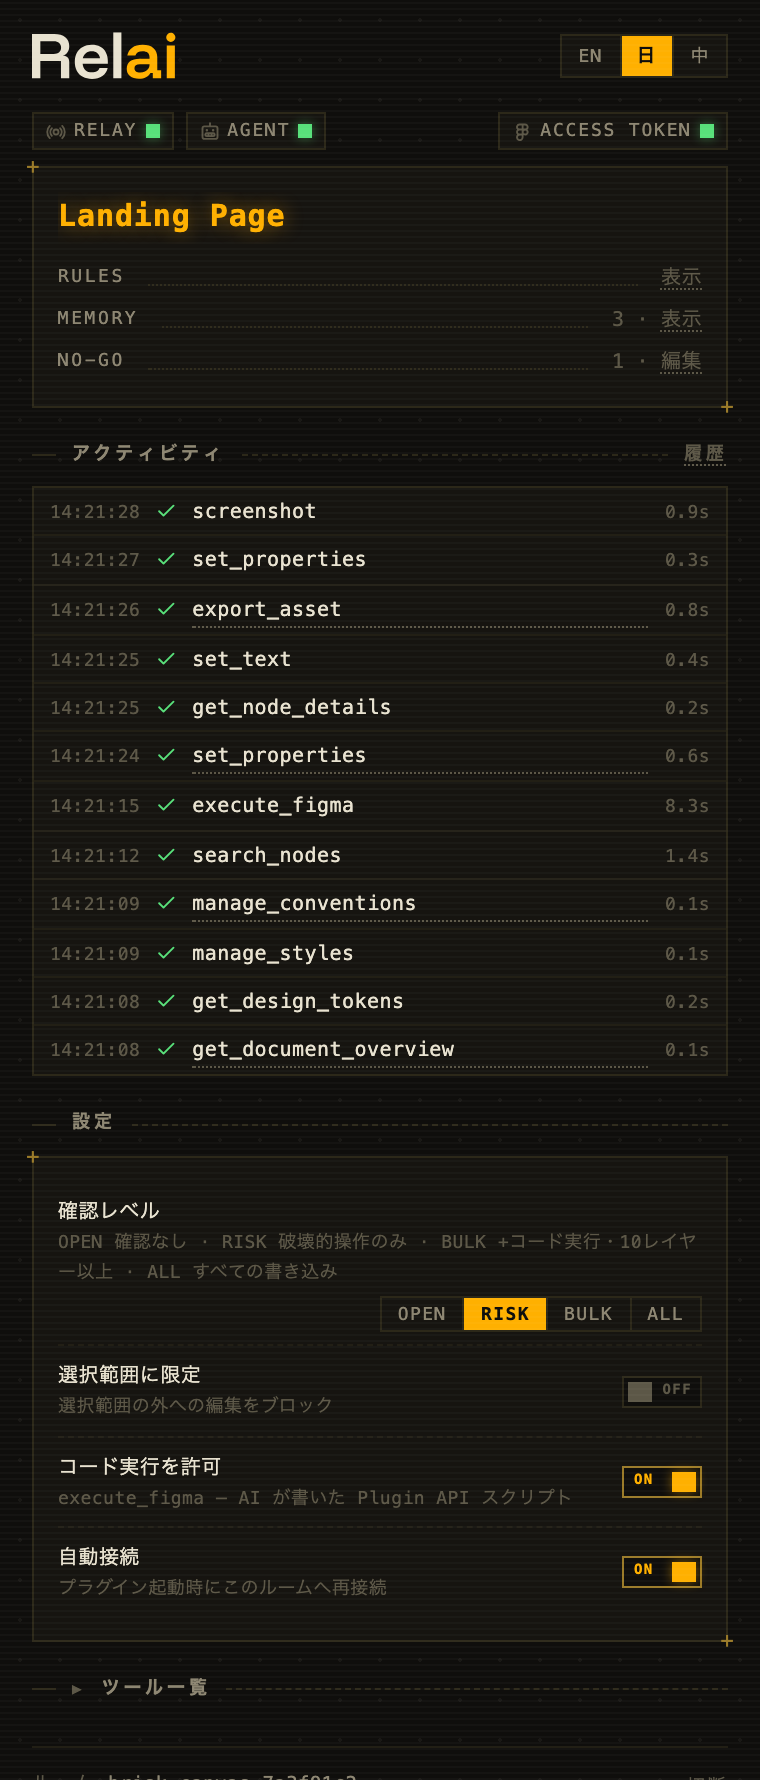
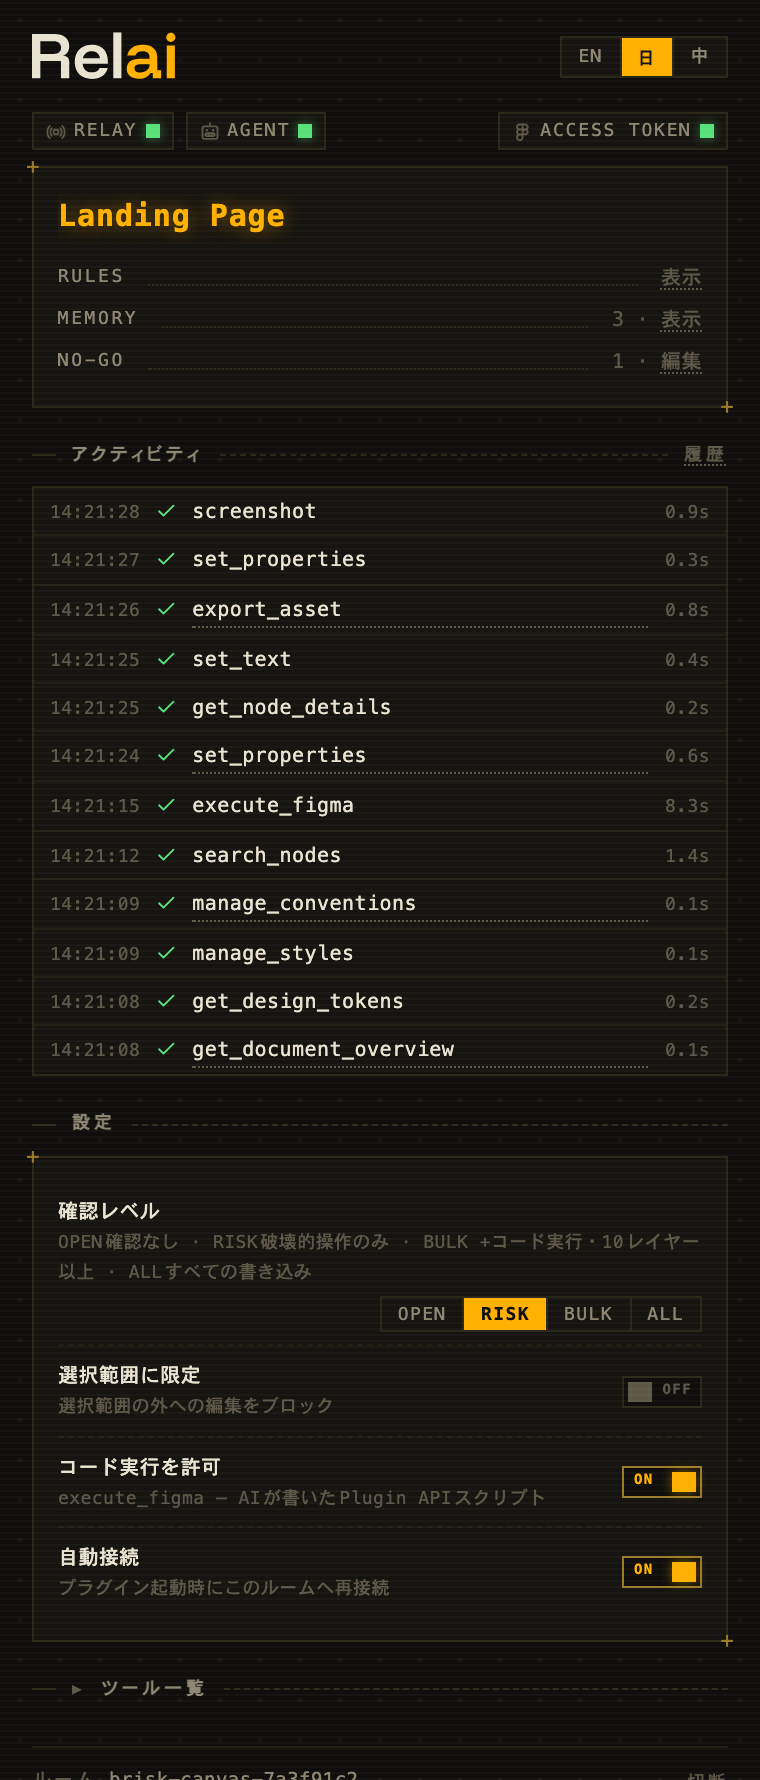
Panel: CJK spacing comes from the engine, the way the site does it
Every gap between Japanese or Chinese and Latin was a literal space typed into
the string — which meant it was uneven (MCP サーバー had one, 10レイヤー did not),
and it was the wrong tool besides: a half-width space in a mono panel is nearly
twice the 1/8 em the typography asks for. The 109 of them are gone; the rule the
site runs on does the work, and applyI18n now tells the document which language
it is so the engine can.

Panel shots re-rendered — only ja and zh moved, which is the check that the
change touched nothing else.

Claude-Session: https://claude.ai/code/session_01LE9DxpFc66NXBEVTWs7co9

diff --git a/packages/figma-plugin/ui.html b/packages/figma-plugin/ui.html
@@ -47,6 +47,10 @@
       position: relative;
     }
 
+    /* CJK↔Latin spacing comes from the engine, not hand-typed half-width spaces —
+       the same rule the site runs on, so the two faces read alike */
+    :root:lang(ja), :root:lang(zh-CN) { text-autospace: normal; }
+
     /* CRT scanlines — barely-there */
     body::after {
       content: "";
@@ -1035,25 +1039,25 @@
         regenerate: '再生成',
         connect: '接続',
         copy: 'コピー',
-        mcp_hint: 'Relay は MCP サーバーに内蔵されています。<b>ポート 9055–9057 にサーバーが見つかりません。</b>AI クライアントに登録して、会話を始めてください：',
-        client_hint_claude: 'Claude Code — ターミナルで実行し、セッションを再起動してください。Node 18+ が必要です。',
-        client_hint_codex: 'Codex CLI — ターミナルで実行すると <code>~/.codex/config.toml</code> に保存されます。Node 18+ が必要です。',
-        client_hint_cursor: 'Cursor — <code>.cursor/mcp.json</code>（プロジェクト）または <code>~/.cursor/mcp.json</code>（グローバル）に貼り付けてください。Node 18+ が必要です。',
+        mcp_hint: 'RelayはMCPサーバーに内蔵されています。<b>ポート9055–9057にサーバーが見つかりません。</b>AIクライアントに登録して、会話を始めてください：',
+        client_hint_claude: 'Claude Code — ターミナルで実行し、セッションを再起動してください。Node 18+が必要です。',
+        client_hint_codex: 'Codex CLI — ターミナルで実行すると<code>~/.codex/config.toml</code>に保存されます。Node 18+が必要です。',
+        client_hint_cursor: 'Cursor — <code>.cursor/mcp.json</code>（プロジェクト）または<code>~/.cursor/mcp.json</code>（グローバル）に貼り付けてください。Node 18+が必要です。',
         guide_title: '仕組み',
-        guide_step1: 'AI クライアントが MCP サーバー（<code>npx -y figma-relai</code>）を起動し、そのサーバーがポート 9055 で Relay をホストします。他にインストール・常駐するものはありません。',
-        guide_step2: 'このプラグインは <code>ws://localhost:9055</code> に接続するだけ。どちらが先に起動しても、双方が自動で再接続します。',
-        guide_step3: 'AI に話しかけるだけで、このプラグインのルームを自動で見つけてペアリングします。ルーム名のコピーは不要です。',
-        guide_step4: 'コントリビューター向け：リポジトリを clone して <code>bun setup</code> を実行すると、ローカルビルドを指す MCP 設定が書き出されます。',
+        guide_step1: 'AIクライアントがMCPサーバー（<code>npx -y figma-relai</code>）を起動し、そのサーバーがポート9055でRelayをホストします。他にインストール・常駐するものはありません。',
+        guide_step2: 'このプラグインは<code>ws://localhost:9055</code>に接続するだけ。どちらが先に起動しても、双方が自動で再接続します。',
+        guide_step3: 'AIに話しかけるだけで、このプラグインのルームを自動で見つけてペアリングします。ルーム名のコピーは不要です。',
+        guide_step4: 'コントリビューター向け：リポジトリをcloneして<code>bun setup</code>を実行すると、ローカルビルドを指すMCP設定が書き出されます。',
         relay_reconnecting: '再接続…',
-        relay_hint_up: 'MCP サーバー内のリレーに接続しています。',
+        relay_hint_up: 'MCPサーバー内のリレーに接続しています。',
         relay_hint_down: 'リレーに届きません — 再接続中です。',
         ai_waiting: '待機中',
-        agent_hint_on: 'AI がこのルームにいて、このファイルとペアリングしています。',
-        agent_hint_off: 'このルームにまだ AI がいません — ペアリング待ちです。',
+        agent_hint_on: 'AIがこのルームにいて、このファイルとペアリングしています。',
+        agent_hint_off: 'このルームにまだAIがいません — ペアリング待ちです。',
         token_absent: 'なし',
-        token_hint_absent: 'Figma アクセストークンが未設定です。クリックで設定方法を表示します。',
-        token_hint_ready: 'MCP サーバーが Figma アクセストークンを認識しています。コメントとライブラリ目録が利用できます。',
-        token_modal_body: 'Figma アクセストークンが未設定です。manage_comments とライブラリ全目録は使えません。以下をターミナルで実行し、AI のセッションを再起動してください：',
+        token_hint_absent: 'Figmaアクセストークンが未設定です。クリックで設定方法を表示します。',
+        token_hint_ready: 'MCPサーバーがFigmaアクセストークンを認識しています。コメントとライブラリ目録が利用できます。',
+        token_modal_body: 'Figmaアクセストークンが未設定です。manage_commentsとライブラリ全目録は使えません。以下をターミナルで実行し、AIのセッションを再起動してください：',
         token_copied: 'コピーしました',
         activity: 'アクティビティ',
         stop: '停止',
@@ -1061,11 +1065,11 @@
         cancelled: 'デザイナーがキャンセル',
         settings: '設定',
         allow_exec: 'コード実行を許可',
-        allow_exec_hint: 'execute_figma — AI が書いた Plugin API スクリプト',
+        allow_exec_hint: 'execute_figma — AIが書いたPlugin APIスクリプト',
         auto_connect: '自動接続',
         auto_connect_hint: 'プラグイン起動時にこのルームへ再接続',
         approvals: '確認レベル',
-        approvals_hint: 'OPEN 確認なし · RISK 破壊的操作のみ · BULK +コード実行・10レイヤー以上 · ALL すべての書き込み',
+        approvals_hint: 'OPEN確認なし · RISK破壊的操作のみ · BULK +コード実行・10レイヤー以上 · ALLすべての書き込み',
         approval_title: 'エージェントからのリクエスト',
         approve: '承認',
         deny: '拒否',
@@ -1088,11 +1092,11 @@
         kit_none: '使わない',
         kit_auto: '自動復元',
         kit_new: '追加',
-        kit_new_link: '+ このファイルの規約から',
+        kit_new_link: '+このファイルの規約から',
         conv_from_kit: 'キット「{kit}」から',
         approval_no_intent: '（エージェントは目的を説明していません）',
         approval_reason_ph: '理由 → ファイルの記憶に残す（任意）',
-        memory_add_ph: '+ 判例をひとこと…（Enter で保存）',
+        memory_add_ph: '+判例をひとこと…（Enterで保存）',
         memory_empty: 'まだ判例はありません — 裁決のたびに増えていきます',
         kind_decision: '裁決',
         kind_intent: '意図',
@@ -1103,8 +1107,8 @@
         tools_title: 'ツール一覧',
         disconnect: '切断',
         ruleset_empty: 'キットはまだありません — 下に名前を入れて、このファイルの規約を最初のひとつとして保存できます',
-        ruleset_save_ph: '名前を入れて Enter',
-        ruleset_import: '+ ファイルを読み込む…',
+        ruleset_save_ph: '名前を入れてEnter',
+        ruleset_import: '+ファイルを読み込む…',
         ruleset_export: '書き出す',
         ruleset_delete: '削除',
         ruleset_sure: '本当に?',
@@ -1131,25 +1135,25 @@
         regenerate: '重新生成',
         connect: '连接',
         copy: '复制',
-        mcp_hint: 'Relay 内嵌于 MCP 服务器。<b>端口 9055–9057 上未检测到服务器。</b>在你的 AI 客户端注册后，开始对话即可：',
-        client_hint_claude: 'Claude Code — 在任意终端运行，然后重启会话。需要 Node 18+。',
-        client_hint_codex: 'Codex CLI — 在任意终端运行，配置会保存到 <code>~/.codex/config.toml</code>。需要 Node 18+。',
-        client_hint_cursor: 'Cursor — 粘贴到 <code>.cursor/mcp.json</code>（项目级）或 <code>~/.cursor/mcp.json</code>（全局）。需要 Node 18+。',
+        mcp_hint: 'Relay内嵌于MCP服务器。<b>端口9055–9057上未检测到服务器。</b>在你的AI客户端注册后，开始对话即可：',
+        client_hint_claude: 'Claude Code — 在任意终端运行，然后重启会话。需要Node 18+。',
+        client_hint_codex: 'Codex CLI — 在任意终端运行，配置会保存到<code>~/.codex/config.toml</code>。需要Node 18+。',
+        client_hint_cursor: 'Cursor — 粘贴到<code>.cursor/mcp.json</code>（项目级）或<code>~/.cursor/mcp.json</code>（全局）。需要Node 18+。',
         guide_title: '工作原理',
-        guide_step1: '你的 AI 客户端会启动 MCP 服务器（<code>npx -y figma-relai</code>），该服务器在端口 9055 托管 Relay。无需安装或常驻任何其他程序。',
-        guide_step2: '本插件只做一件事：连接 <code>ws://localhost:9055</code>。谁先启动都可以，双方都会自动重连。',
-        guide_step3: '直接对 AI 说话——它会自动发现本插件的房间并配对，无需复制任何内容。',
-        guide_step4: '贡献者：clone 仓库后运行 <code>bun setup</code>，会写出指向本地构建的 MCP 配置。',
+        guide_step1: '你的AI客户端会启动MCP服务器（<code>npx -y figma-relai</code>），该服务器在端口9055托管Relay。无需安装或常驻任何其他程序。',
+        guide_step2: '本插件只做一件事：连接<code>ws://localhost:9055</code>。谁先启动都可以，双方都会自动重连。',
+        guide_step3: '直接对AI说话——它会自动发现本插件的房间并配对，无需复制任何内容。',
+        guide_step4: '贡献者：clone仓库后运行<code>bun setup</code>，会写出指向本地构建的MCP配置。',
         relay_reconnecting: '重连中…',
-        relay_hint_up: '已连接到 MCP 服务器内置的 relay。',
-        relay_hint_down: 'relay 不可达 — 正在重连。',
+        relay_hint_up: '已连接到MCP服务器内置的relay。',
+        relay_hint_down: 'relay不可达 — 正在重连。',
         ai_waiting: '等待中',
-        agent_hint_on: 'AI 已在这个房间里，与这个文件配对。',
-        agent_hint_off: '这个房间还没有 AI — 等待配对。',
+        agent_hint_on: 'AI已在这个房间里，与这个文件配对。',
+        agent_hint_off: '这个房间还没有AI — 等待配对。',
         token_absent: '未设置',
-        token_hint_absent: '未设置 Figma 访问令牌，点击查看设置方法。',
-        token_hint_ready: 'MCP 服务器已识别到 Figma 访问令牌，评论与库目录均可用。',
-        token_modal_body: '未设置 Figma 访问令牌，manage_comments 与完整库目录不可用。在任意终端执行以下命令，然后重启 AI 会话：',
+        token_hint_absent: '未设置Figma访问令牌，点击查看设置方法。',
+        token_hint_ready: 'MCP服务器已识别到Figma访问令牌，评论与库目录均可用。',
+        token_modal_body: '未设置Figma访问令牌，manage_comments与完整库目录不可用。在任意终端执行以下命令，然后重启AI会话：',
         token_copied: '已复制',
         activity: '活动',
         stop: '停止',
@@ -1157,12 +1161,12 @@
         cancelled: '设计师已取消',
         settings: '设置',
         allow_exec: '允许代码执行',
-        allow_exec_hint: 'execute_figma — AI 编写的 Plugin API 脚本',
+        allow_exec_hint: 'execute_figma — AI编写的Plugin API脚本',
         auto_connect: '自动连接',
         auto_connect_hint: '插件启动时自动重连到此房间',
         approvals: '确认级别',
-        approvals_hint: 'OPEN 不问 · RISK 高危操作 · BULK +代码与10个图层以上 · ALL 全部写入',
-        approval_title: 'Agent 请求',
+        approvals_hint: 'OPEN不问 · RISK高危操作 · BULK +代码与10个图层以上 · ALL全部写入',
+        approval_title: 'Agent请求',
         approve: '批准',
         deny: '拒绝',
         lock_label: '仅限选区',
@@ -1171,7 +1175,7 @@
         lock_on_prefix: '已锁定: ',
         conventions_view: '查看',
         rules_add: '添加',
-        rules_empty_hint: '还没有规矩。让 agent 帮你写（manage_conventions），或选一个 kit 更新进来。',
+        rules_empty_hint: '还没有规矩。让agent帮你写（manage_conventions），或选一个kit更新进来。',
         moment_wound: '我的规矩丢了——从「{kit}」放回来？',
         moment_wound_yes: '恢复',
         moment_drift: '我的规矩和「{kit}」不一样了。',
@@ -1184,11 +1188,11 @@
         kit_none: '不使用',
         kit_auto: '自动恢复',
         kit_new: '新建',
-        kit_new_link: '+ 存入这个文件的规矩',
-        conv_from_kit: '来自 kit「{kit}」',
-        approval_no_intent: '（agent 没有说明这次要做什么）',
+        kit_new_link: '+存入这个文件的规矩',
+        conv_from_kit: '来自kit「{kit}」',
+        approval_no_intent: '（agent没有说明这次要做什么）',
         approval_reason_ph: '理由 → 记入文件记忆（可选）',
-        memory_add_ph: '+ 记一笔…（Enter 保存）',
+        memory_add_ph: '+记一笔…（Enter保存）',
         memory_empty: '还没有判例 — 每次裁决都会沉淀在这里',
         kind_decision: '裁决',
         kind_intent: '意图',
@@ -1198,24 +1202,24 @@
         evidence_bulk: '批量写入',
         tools_title: '工具列表',
         disconnect: '断开',
-        ruleset_empty: '还没有 kit — 在下面输入名字，把这个文件的规矩存成第一套',
+        ruleset_empty: '还没有kit — 在下面输入名字，把这个文件的规矩存成第一套',
         ruleset_save_ph: '输入名字回车',
-        ruleset_import: '+ 导入文件…',
+        ruleset_import: '+导入文件…',
         ruleset_export: '导出',
         ruleset_delete: '删除',
         ruleset_sure: '确定？',
-        ruleset_restore: '从 kit 更新这个文件',
-        ruleset_push: '把这个文件的规矩发布到 kit',
+        ruleset_restore: '从kit更新这个文件',
+        ruleset_push: '把这个文件的规矩发布到kit',
         ruleset_state_fileempty: '规矩丢了',
         ruleset_state_drifted: '规矩有差异',
         ruleset_state_missing: '这台机器上没有',
         history: '历史',
         hist_empty: '还没有记录',
-        checkup_hint: '距上次全面体检已 {d} 天 — 让 agent 跑一次吧',
-        proposal_title: 'AGENT 提议',
+        checkup_hint: '距上次全面体检已 {d} 天 — 让agent跑一次吧',
+        proposal_title: 'AGENT提议',
         proposal_enable: '设为禁区',
         proposal_dismiss: '不用了',
-        promote_title: '升格进 kit'
+        promote_title: '升格进kit'
       }
     };
     var LOCALES = ['en', 'ja', 'zh'];
@@ -1223,6 +1227,8 @@
 
     function t(key) { return (I18N[locale] && I18N[locale][key]) || I18N.en[key] || key; }
     function applyI18n() {
+      // The engine only spaces CJK against Latin when it knows the language
+      document.documentElement.lang = locale === 'zh' ? 'zh-CN' : locale;
       document.querySelectorAll('[data-i18n]').forEach(function (el) {
         el.textContent = t(el.getAttribute('data-i18n'));
       });

diff --git a/CHANGELOG.md b/CHANGELOG.md
@@ -1,5 +1,10 @@
 # Changelog
 
+## Unreleased
+
+- **The panel stopped hand-typing its Japanese and Chinese spacing.** Every gap between CJK and Latin used to be a literal half-width space in the string — uneven by hand (`10レイヤー` had none while `MCP サーバー` had one) and wrong in every other context. The strings are now written without them and `text-autospace` puts back the 1/8 em the typography actually calls for, which is what the site has always done; `applyI18n` sets the document language so the engine knows which rules to run.
+- A pitfall's advice sharpened: an atom escapes the variant-set text sync only if its variants are standalone components rather than a set of their own.
+
 ## 0.5.4
 
 Writing the law now says what it did to the kit.
